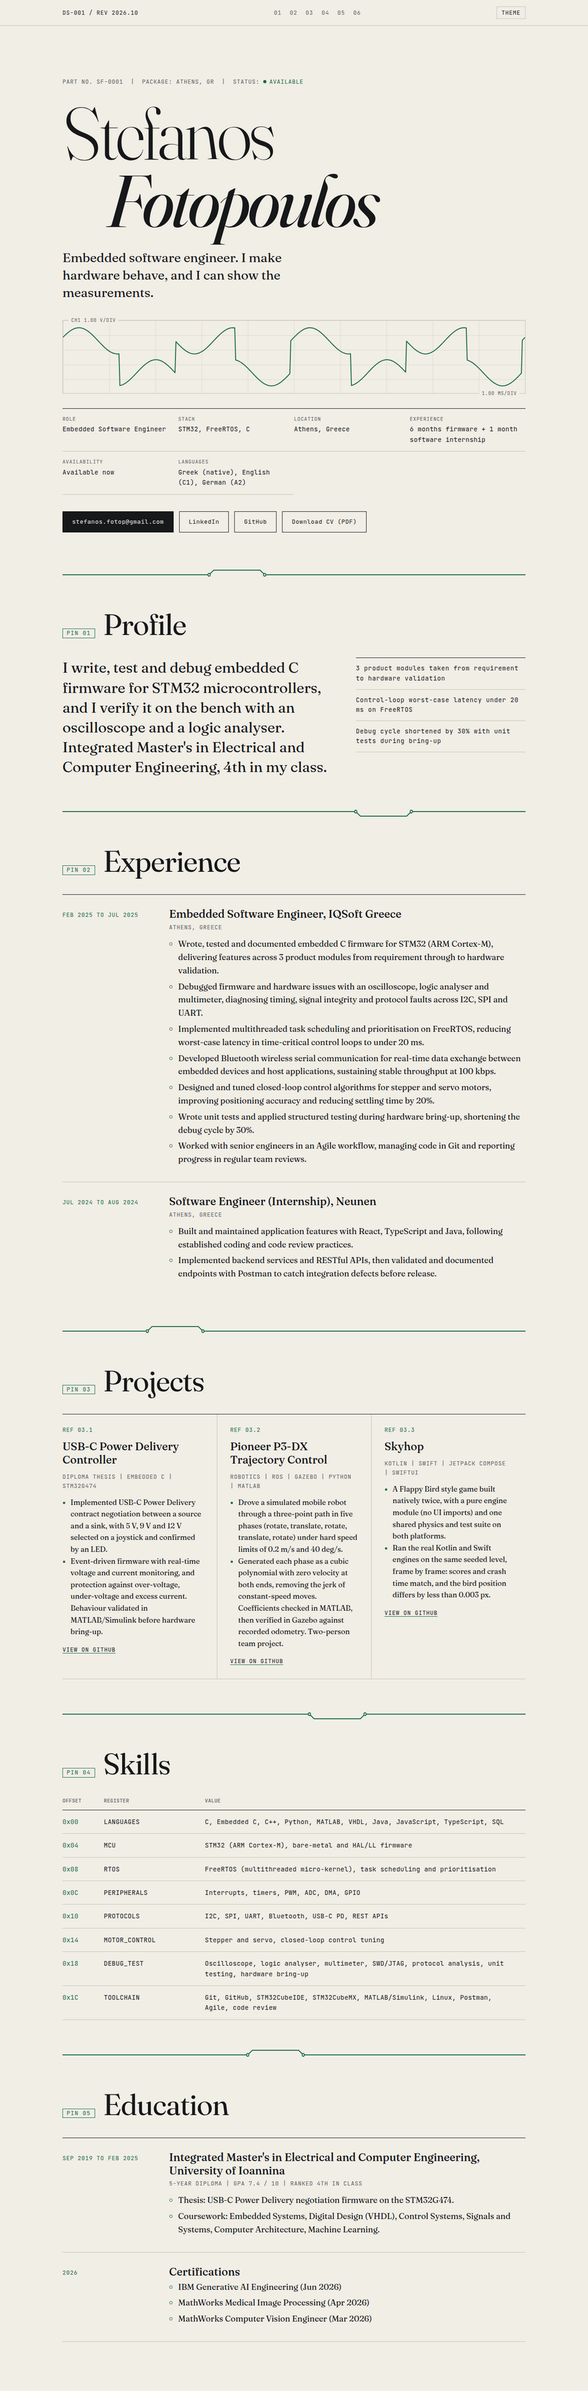
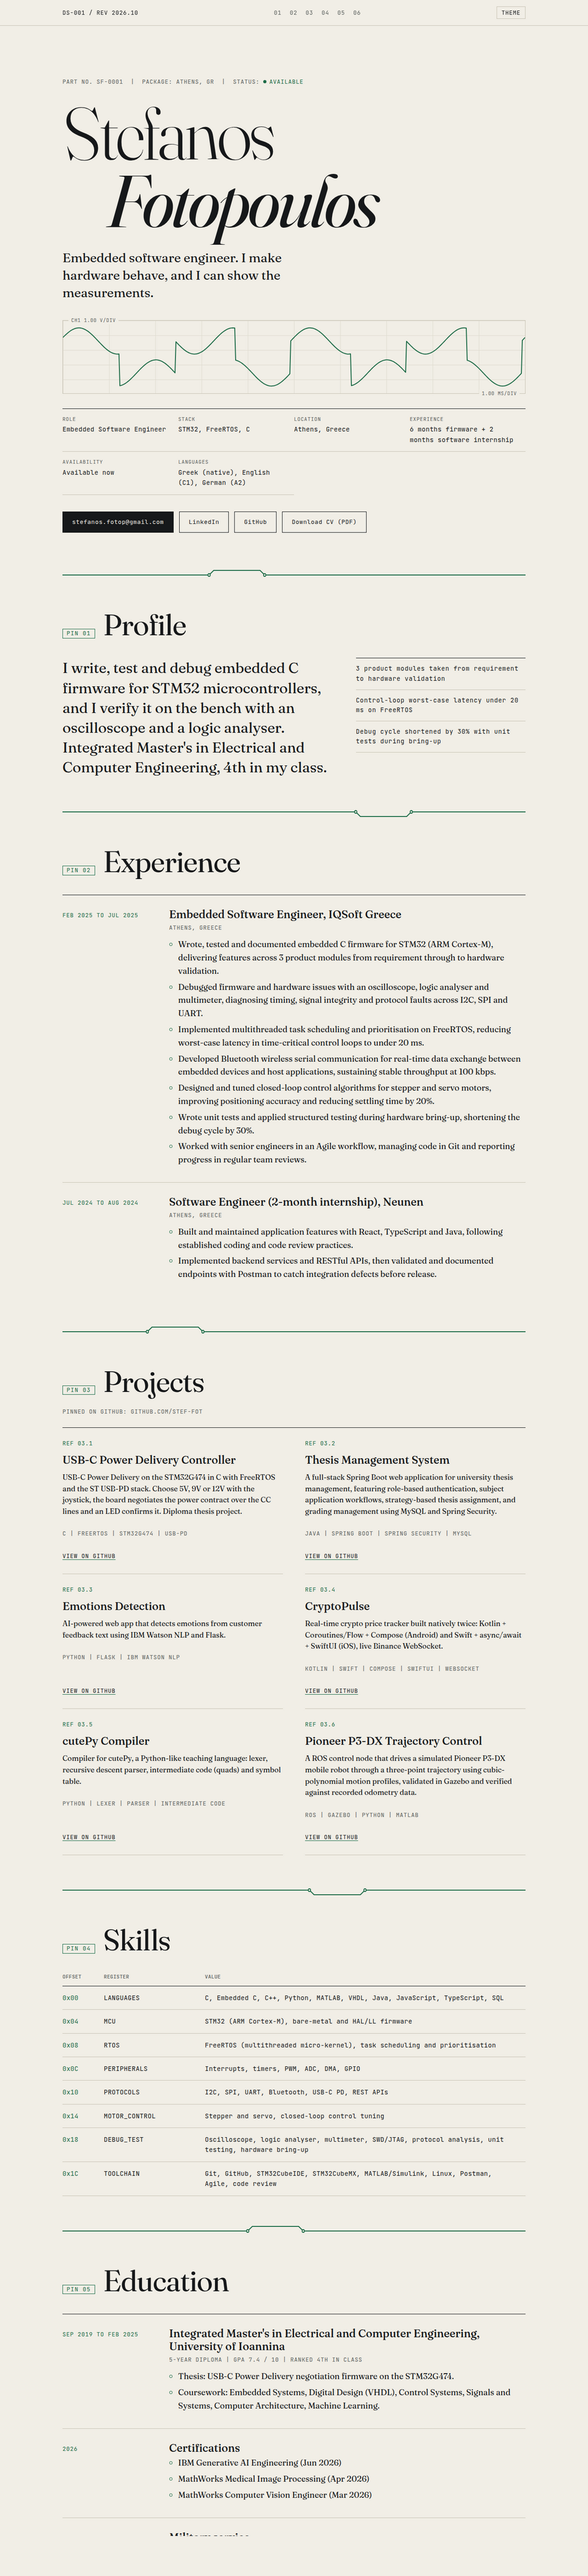
Showcase the six pinned repositories, 2-month internship, driving licence

diff --git a/index.html b/index.html
@@ -41,7 +41,7 @@
     <div><dt>ROLE</dt><dd>Embedded Software Engineer</dd></div>
     <div><dt>STACK</dt><dd>STM32, FreeRTOS, C</dd></div>
     <div><dt>LOCATION</dt><dd>Athens, Greece</dd></div>
-    <div><dt>EXPERIENCE</dt><dd>6 months firmware + 1 month software internship</dd></div>
+    <div><dt>EXPERIENCE</dt><dd>6 months firmware + 2 months software internship</dd></div>
     <div><dt>AVAILABILITY</dt><dd>Available now</dd></div>
     <div><dt>LANGUAGES</dt><dd>Greek (native), English (C1), German (A2)</dd></div>
   </dl>
@@ -94,7 +94,7 @@
     <li>
       <p class="mono when">Jul 2024 to Aug 2024</p>
       <div>
-        <h3>Software Engineer (Internship), Neunen</h3>
+        <h3>Software Engineer (2-month internship), Neunen</h3>
         <p class="mono meta">Athens, Greece</p>
         <ul>
           <li>Built and maintained application features with React, TypeScript and Java, following established coding and code review practices.</li>
@@ -109,36 +109,49 @@
 
 <section id="projects">
   <h2><span class="mono pin">PIN 03</span> Projects</h2>
+  <p class="mono showcase">Pinned on GitHub: github.com/stef-fot</p>
   <div class="projects">
     <article>
       <p class="mono ref">REF 03.1</p>
       <h3>USB-C Power Delivery Controller</h3>
-      <p class="mono tags">Diploma thesis | Embedded C | STM32G474</p>
-      <ul>
-        <li>Implemented USB-C Power Delivery contract negotiation between a source and a sink, with 5 V, 9 V and 12 V selected on a joystick and confirmed by an LED.</li>
-        <li>Event-driven firmware with real-time voltage and current monitoring, and protection against over-voltage, under-voltage and excess current. Behaviour validated in MATLAB/Simulink before hardware bring-up.</li>
-      </ul>
+      <p class="desc">USB-C Power Delivery on the STM32G474 in C with FreeRTOS and the ST USB-PD stack. Choose 5V, 9V or 12V with the joystick, the board negotiates the power contract over the CC lines and an LED confirms it. Diploma thesis project.</p>
+      <p class="mono tags">C | FreeRTOS | STM32G474 | USB-PD</p>
       <p class="mono more"><a href="https://github.com/stef-fot/PowerDeliveryProject_Diploma" rel="noopener">View on GitHub</a></p>
     </article>
     <article>
       <p class="mono ref">REF 03.2</p>
-      <h3>Pioneer P3-DX Trajectory Control</h3>
-      <p class="mono tags">Robotics | ROS | Gazebo | Python | MATLAB</p>
-      <ul>
-        <li>Drove a simulated mobile robot through a three-point path in five phases (rotate, translate, rotate, translate, rotate) under hard speed limits of 0.2 m/s and 40 deg/s.</li>
-        <li>Generated each phase as a cubic polynomial with zero velocity at both ends, removing the jerk of constant-speed moves. Coefficients checked in MATLAB, then verified in Gazebo against recorded odometry. Two-person team project.</li>
-      </ul>
-      <p class="mono more"><a href="https://github.com/stef-fot/Robotics" rel="noopener">View on GitHub</a></p>
+      <h3>Thesis Management System</h3>
+      <p class="desc">A full-stack Spring Boot web application for university thesis management, featuring role-based authentication, subject application workflows, strategy-based thesis assignment, and grading management using MySQL and Spring Security.</p>
+      <p class="mono tags">Java | Spring Boot | Spring Security | MySQL</p>
+      <p class="mono more"><a href="https://github.com/stef-fot/thesis-management-system" rel="noopener">View on GitHub</a></p>
     </article>
     <article>
       <p class="mono ref">REF 03.3</p>
-      <h3>Skyhop</h3>
-      <p class="mono tags">Kotlin | Swift | Jetpack Compose | SwiftUI</p>
-      <ul>
-        <li>A Flappy Bird style game built natively twice, with a pure engine module (no UI imports) and one shared physics and test suite on both platforms.</li>
-        <li>Ran the real Kotlin and Swift engines on the same seeded level, frame by frame: scores and crash time match, and the bird position differs by less than 0.003 px.</li>
-      </ul>
-      <p class="mono more"><a href="https://github.com/stef-fot/skyhop" rel="noopener">View on GitHub</a></p>
+      <h3>Emotions Detection</h3>
+      <p class="desc">AI-powered web app that detects emotions from customer feedback text using IBM Watson NLP and Flask.</p>
+      <p class="mono tags">Python | Flask | IBM Watson NLP</p>
+      <p class="mono more"><a href="https://github.com/stef-fot/Emotions-Detection" rel="noopener">View on GitHub</a></p>
+    </article>
+    <article>
+      <p class="mono ref">REF 03.4</p>
+      <h3>CryptoPulse</h3>
+      <p class="desc">Real-time crypto price tracker built natively twice: Kotlin + Coroutines/Flow + Compose (Android) and Swift + async/await + SwiftUI (iOS), live Binance WebSocket.</p>
+      <p class="mono tags">Kotlin | Swift | Compose | SwiftUI | WebSocket</p>
+      <p class="mono more"><a href="https://github.com/stef-fot/cryptopulse" rel="noopener">View on GitHub</a></p>
+    </article>
+    <article>
+      <p class="mono ref">REF 03.5</p>
+      <h3>cutePy Compiler</h3>
+      <p class="desc">Compiler for cutePy, a Python-like teaching language: lexer, recursive descent parser, intermediate code (quads) and symbol table.</p>
+      <p class="mono tags">Python | Lexer | Parser | Intermediate code</p>
+      <p class="mono more"><a href="https://github.com/stef-fot/cutePy" rel="noopener">View on GitHub</a></p>
+    </article>
+    <article>
+      <p class="mono ref">REF 03.6</p>
+      <h3>Pioneer P3-DX Trajectory Control</h3>
+      <p class="desc">A ROS control node that drives a simulated Pioneer P3-DX mobile robot through a three-point trajectory using cubic-polynomial motion profiles, validated in Gazebo and verified against recorded odometry data.</p>
+      <p class="mono tags">ROS | Gazebo | Python | MATLAB</p>
+      <p class="mono more"><a href="https://github.com/stef-fot/Robotics" rel="noopener">View on GitHub</a></p>
     </article>
   </div>
 </section>
@@ -194,6 +207,13 @@
       <div>
         <h3>Military service</h3>
         <p class="mono meta">Completed</p>
+      </div>
+    </li>
+    <li>
+      <p class="mono when">Licence</p>
+      <div>
+        <h3>Driving licence</h3>
+        <p class="mono meta">Car driving licence held</p>
       </div>
     </li>
   </ol>

diff --git a/styles.css b/styles.css
@@ -119,12 +119,12 @@ h3 { font-weight: 500; font-size: 24px; line-height: 1.2; margin: 0 0 4px; }
 .log ul li { margin-bottom: 6px; }
 .log ul li::marker { color: var(--accent); }
 
-.projects { display: grid; grid-template-columns: repeat(auto-fit, minmax(300px, 1fr)); gap: 0; border-top: 1px solid var(--ink); }
-.projects article { padding: 24px 28px 28px 0; border-bottom: 1px solid var(--rule); }
-.projects ul { margin: 0; padding-left: 1.1em; font-size: 16px; }
-.projects li::marker { color: var(--accent); }
-.projects .more { margin: 16px 0 0; }
-.projects article + article { padding-left: 28px; border-left: 1px solid var(--rule); }
+.projects { display: grid; grid-template-columns: repeat(auto-fill, minmax(320px, 1fr)); gap: 0 48px; border-top: 1px solid var(--ink); }
+.projects article { padding: 24px 0 28px; border-bottom: 1px solid var(--rule); display: flex; flex-direction: column; }
+.projects h3 { margin-bottom: 10px; }
+.projects .desc { margin: 0 0 14px; font-size: 16px; line-height: 1.55; }
+.projects .more { margin: auto 0 0; padding-top: 16px; }
+.showcase { color: var(--muted); margin: -16px 0 24px; }
 .ref { color: var(--accent); margin: 0 0 12px; }
 .tags { color: var(--muted); }
 
@@ -140,7 +140,6 @@ footer { display: flex; justify-content: space-between; flex-wrap: wrap; gap: 8p
 @media (max-width: 760px) {
   .bar nav { display: none; }
   .cols, .log > li { grid-template-columns: 1fr; gap: 16px; }
-.projects article + article { padding-left: 0; border-left: 0; }
   .regs td:nth-child(2) { width: auto; }
   .regs td:first-child { display: none; } .regs th:first-child { display: none; }
   h1 em { margin-left: 0; }

diff --git a/README.md b/README.md
@@ -12,10 +12,10 @@ Static site (HTML, CSS, vanilla JavaScript). No build step, no dependencies.
 |---|---|---|
 | **Hero** | Name, one-line pitch, animated oscilloscope trace, fact sheet (role, stack, location, experience, availability, languages), buttons for email, LinkedIn, GitHub and CV | Recruiters: the essentials in 10 seconds |
 | **PIN 01 Profile** | Short profile and three measurable results | Everyone |
-| **PIN 02 Experience** | IQSoft Greece (Embedded Software Engineer) and Neunen (internship), with concrete numbers | Engineering managers |
-| **PIN 03 Projects** | USB-C Power Delivery Controller (STM32G474), Pioneer P3-DX trajectory control (ROS), Skyhop (Kotlin and Swift), each linked to its repository | Technical reviewers |
+| **PIN 02 Experience** | IQSoft Greece (Embedded Software Engineer) and Neunen (2-month internship), with concrete numbers | Engineering managers |
+| **PIN 03 Projects** | A showcase of the 6 repositories pinned on GitHub, with their descriptions: USB-C Power Delivery (STM32G474), Thesis Management System, Emotions Detection, CryptoPulse, cutePy compiler, Pioneer P3-DX trajectory control | Technical reviewers |
 | **PIN 04 Skills** | A register-map style table (offset, name, value) | Quick skim of the stack |
-| **PIN 05 Education** | Integrated Master's at the University of Ioannina, certifications, military service | Recruiters |
+| **PIN 05 Education** | Integrated Master's at the University of Ioannina, certifications, military service, driving licence | Recruiters |
 | **PIN 06 Contact** | Email, LinkedIn, GitHub, CV download | Everyone |
 
 ### Details that reward a closer look
